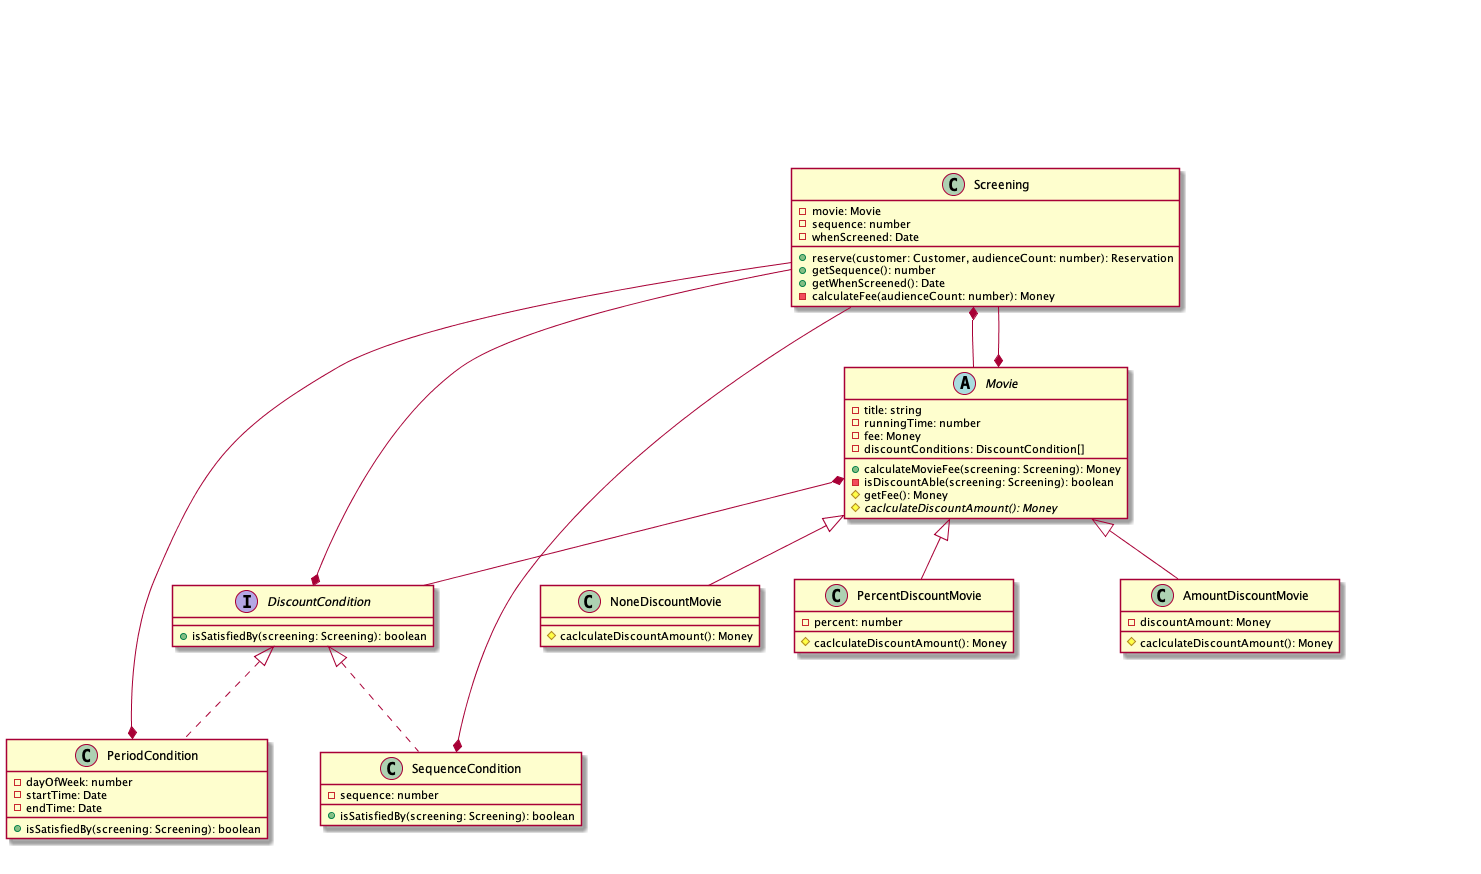
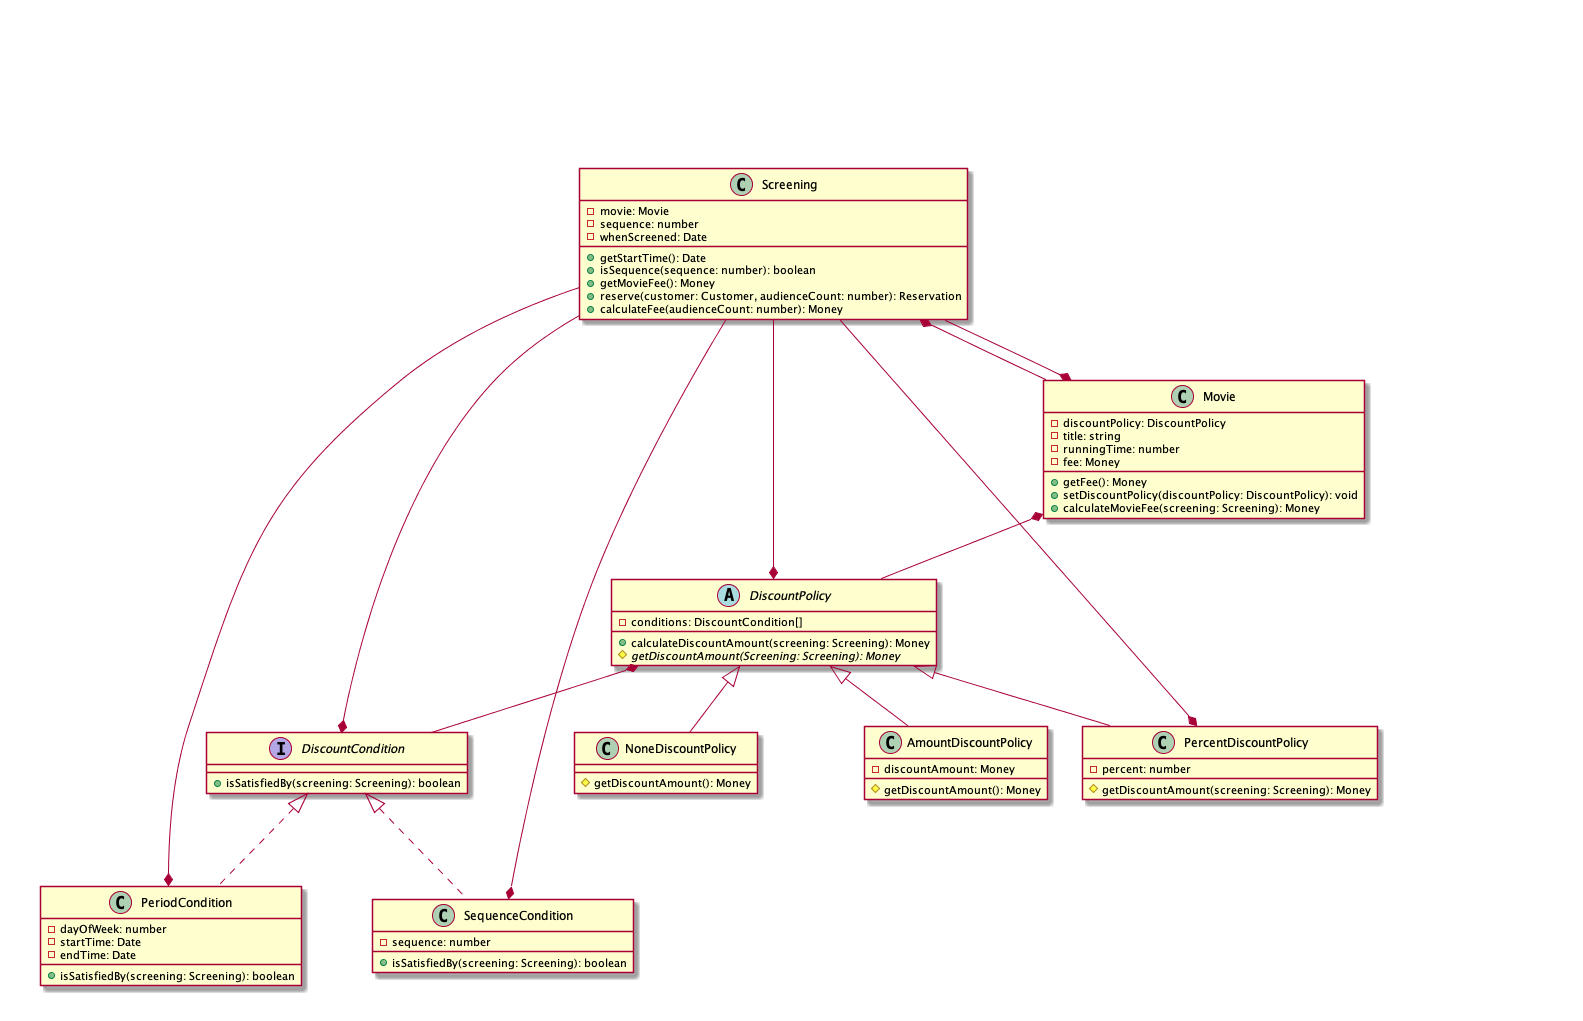
164p
164p
164p

164p

164p

164p

diff --git a/chapter5/Movie.ts b/chapter5/Movie.ts
@@ -1,25 +1,23 @@
 import { Money } from './Money';
+import { DiscountPolicy } from './DiscountPolicy';
 import { Screening } from './Screening';
-import { DiscountCondition } from './DiscountCondition';
 
-export abstract class Movie {
-  constructor(private title: string, private runningTime: number, private fee: Money, private discountConditions: DiscountCondition[]) {}
+export class Movie {
+  private discountPolicy: DiscountPolicy;
+
+  constructor(private title: string, private runningTime: number, private fee: Money, discountPolicy: DiscountPolicy) {
+    this.setDiscountPolicy(discountPolicy);
+  }
+
+  getFee(): Money {
+    return this.fee;
+  }
+
+  setDiscountPolicy(discountPolicy: DiscountPolicy) {
+    this.discountPolicy = discountPolicy;
+  }
 
   calculateMovieFee(screening: Screening): Money {
-    if (this.isDiscountAble(screening)) {
-      return this.fee.minus(this.caclculateDiscountAmount());
-    }
-
-    return this.fee;
+    return this.fee.minus(this.discountPolicy.calculateDiscountAmount(screening));
   }
-
-  private isDiscountAble(screening: Screening): boolean {
-    return this.discountConditions.some(discountCondition => discountCondition.isSatisfiedBy(screening));
-  }
-
-  protected getFee(): Money {
-    return this.fee;
-  }
-
-  protected abstract caclculateDiscountAmount(): Money;
 }

diff --git a/chapter5/Screening.ts b/chapter5/Screening.ts
@@ -1,24 +1,28 @@
-import { Reservation } from './Reservation';
-import { Customer } from './Customer';
 import { Movie } from './Movie';
 import { Money } from './Money';
+import { Customer } from './Customer';
+import { Reservation } from './Reservation';
 
 export class Screening {
   constructor(private movie: Movie, private sequence: number, private whenScreened: Date) {}
+
+  getStartTime(): Date {
+    return this.whenScreened;
+  }
+
+  isSequence(sequence: number): boolean {
+    return this.sequence === sequence;
+  }
+
+  getMovieFee(): Money {
+    return this.movie.getFee();
+  }
 
   reserve(customer: Customer, audienceCount: number): Reservation {
     return new Reservation(customer, this, this.calculateFee(audienceCount), audienceCount);
   }
 
-  getSequence() {
-    return this.sequence;
-  }
-
-  getWhenScreened() {
-    return this.whenScreened;
-  }
-
-  private calculateFee(audienceCount: number): Money {
+  calculateFee(audienceCount: number): Money {
     return this.movie.calculateMovieFee(this).times(audienceCount);
   }
 }

diff --git a/chapter5/pricing/PeriodCondition.ts b/chapter5/pricing/PeriodCondition.ts
@@ -1,0 +1,14 @@
+import { DiscountCondition } from '../DiscountCondition';
+import { Screening } from '../Screening';
+
+export class PeriodCondition implements DiscountCondition {
+  constructor(private dayOfWeek: number, private startTime: Date, private endTime: Date) {}
+
+  isSatisfiedBy(screening: Screening): boolean {
+    return (
+      screening.getStartTime().getDay() === this.dayOfWeek &&
+      this.startTime.getTime() <= screening.getStartTime().getTime() &&
+      this.endTime.getTime() >= screening.getStartTime().getTime()
+    );
+  }
+}

diff --git a/chapter5/DiscountPolicy.ts b/chapter5/DiscountPolicy.ts
@@ -1,0 +1,17 @@
+import { DiscountCondition } from './DiscountCondition';
+import { Screening } from './Screening';
+import { Money } from './Money';
+
+export abstract class DiscountPolicy {
+  constructor(private conditions: DiscountCondition[]) {}
+
+  calculateDiscountAmount(screening: Screening) {
+    if (this.conditions.some(condition => condition.isSatisfiedBy(screening))) {
+      return this.getDiscountAmount(screening);
+    }
+
+    return Money.ZERO;
+  }
+
+  protected abstract getDiscountAmount(Screening: Screening): Money;
+}

diff --git a/chapter5/pricing/PercentDiscountPolicy.ts b/chapter5/pricing/PercentDiscountPolicy.ts
@@ -1,0 +1,14 @@
+import { DiscountCondition } from '../DiscountCondition';
+import { DiscountPolicy } from '../DiscountPolicy';
+import { Screening } from '../Screening';
+import { Money } from '../Money';
+
+export class PercentDiscountPolicy extends DiscountPolicy {
+  constructor(private percent: number, conditions: DiscountCondition[]) {
+    super(conditions);
+  }
+
+  protected getDiscountAmount(screening: Screening): Money {
+    return screening.getMovieFee().times(this.percent);
+  }
+}

diff --git a/chapter5/pricing/SequenceCondition.ts b/chapter5/pricing/SequenceCondition.ts
@@ -1,10 +1,10 @@
-import { Screening } from './Screening';
-import { DiscountCondition } from './DiscountCondition';
+import { DiscountCondition } from '../DiscountCondition';
+import { Screening } from '../Screening';
 
 export class SequenceCondition implements DiscountCondition {
   constructor(private sequence: number) {}
 
   isSatisfiedBy(screening: Screening): boolean {
-    return screening.getSequence() === this.sequence;
+    return screening.isSequence(this.sequence);
   }
 }

diff --git a/chapter5/pricing/AmountDiscountPolicy.ts b/chapter5/pricing/AmountDiscountPolicy.ts
@@ -1,0 +1,13 @@
+import { DiscountPolicy } from '../DiscountPolicy';
+import { DiscountCondition } from '../DiscountCondition';
+import { Money } from '../Money';
+
+export class AmountDiscountPolicy extends DiscountPolicy {
+  constructor(private discountAmount: Money, conditions: DiscountCondition[]) {
+    super(conditions);
+  }
+
+  protected getDiscountAmount(): Money {
+    return this.discountAmount;
+  }
+}

diff --git a/chapter5/pricing/NoneDiscountPolicy.ts b/chapter5/pricing/NoneDiscountPolicy.ts
@@ -1,0 +1,9 @@
+import { Money } from '../Money';
+import { DiscountPolicy } from '../DiscountPolicy';
+
+export class NoneDiscountPolicy extends DiscountPolicy {
+  // eslint-disable-next-line class-methods-use-this
+  protected getDiscountAmount(): Money {
+    return Money.ZERO;
+  }
+}

diff --git a/chapter5/Customer.ts b/chapter5/Customer.ts
@@ -1,1 +1,3 @@
-export class Customer {}
+export class Customer {
+  constructor(private name: string, private id: string) {}
+}
